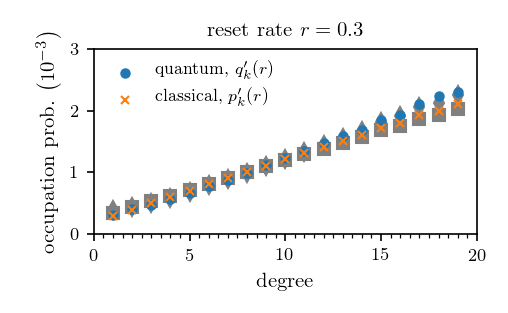
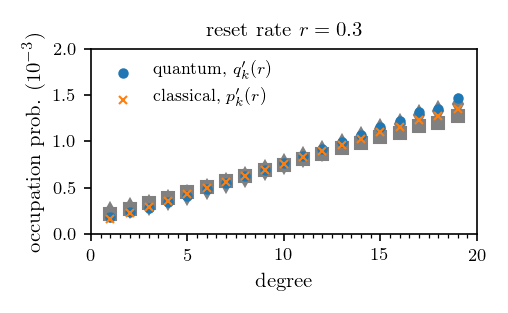
normalization correction

diff --git a/walkerlib/analytical.py b/walkerlib/analytical.py
@@ -33,7 +33,7 @@ def stationary_distribution(G, HC, phiC0, r):
         degreeProbDictC_analtyic[G.degree(j)] += stationary_distr_cl[j]   
     
     classical_observation_prob_analytical = \
-    np.asarray([x for x in degreeProbDictC_analtyic.values()])/cnt*sum(cnt)
+    np.asarray([x for x in degreeProbDictC_analtyic.values()])/cnt*1e3
     
     return deg, classical_observation_prob_analytical
         
@@ -86,6 +86,6 @@ def long_time_average(G, HQ, phim1Q0, r):
         degreeProbDictQ_analtyic[G.degree(j)] += stationary_distr_q[j]   
     
     quantum_observation_prob_analytical = \
-    np.asarray([float(x) for x in degreeProbDictQ_analtyic.values()])/cnt*sum(cnt)
+    np.asarray([float(x) for x in degreeProbDictQ_analtyic.values()])/cnt*1e3
         
     return deg, quantum_observation_prob_analytical

diff --git a/walkerlib/integration.py b/walkerlib/integration.py
@@ -213,10 +213,10 @@ def simulate_qc(G,
     cnt = np.asarray(cnt)
 
     classical_observation_prob = \
-    np.asarray([x for x in degreeProbDictC.values()])/cnt*sum(cnt)
+    np.asarray([x for x in degreeProbDictC.values()])/cnt*1e3
     
     quantum_observation_prob = \
-    np.asarray([x for x in degreeProbDictQ.values()])/cnt*sum(cnt)
+    np.asarray([x for x in degreeProbDictQ.values()])/cnt*1e3
     
     return deg, classical_observation_prob, quantum_observation_prob
 
@@ -311,7 +311,7 @@ def simulate_QSW(G,
     cnt = np.asarray(cnt)
     
     QSW_observation_prob = \
-    np.asarray([x for x in degreeProbDictQSW.values()])/cnt*sum(cnt)
+    np.asarray([x for x in degreeProbDictQSW.values()])/cnt*1e3
     
     return deg, QSW_observation_prob
 

diff --git a/qc_walks.py b/qc_walks.py
@@ -69,10 +69,10 @@ plt.plot(degree_arr, quantum_observation_prob, marker = 'o', ls = 'None', \
 plt.plot(degree_arr, classical_observation_prob, marker = 'x', ls = 'None', \
          markersize = 4, label=r'classical, $p^\prime_k(r)$')
 plt.xlim(0,20)
-plt.ylim(0,3)  
+plt.ylim(0,2)  
 ax.xaxis.set_minor_locator(MultipleLocator(0.5))
 plt.legend(loc = 2, frameon = False, fontsize = 8)
 plt.xlabel(r'degree')
-plt.ylabel(r'occupation prob. $\left(10^{-3}\right)$')
+plt.ylabel(r'occupation prob. ($10^{-3}$)')
 plt.tight_layout()
 plt.show()

diff --git a/qsw_walks.py b/qsw_walks.py
@@ -69,10 +69,10 @@ plt.plot(degree_arr, classical_observation_prob_analytical, marker = 's', \
 plt.plot(degree_arr, QSW_observation_prob, marker = 'o', ls = 'None', \
          markersize = 4, label=r'QSW, $\epsilon=%1.1f$'%eps)
 plt.xlim(0,20)
-plt.ylim(0,3)  
+plt.ylim(0,2)  
 ax.xaxis.set_minor_locator(MultipleLocator(0.5))
 plt.legend(loc = 2, frameon = False, fontsize = 8)
 plt.xlabel(r'degree')
-plt.ylabel(r'occupation prob. $\left(10^{-3}\right)$')
+plt.ylabel(r'occupation prob. ($10^{-3}$)')
 plt.tight_layout()
 plt.show()
